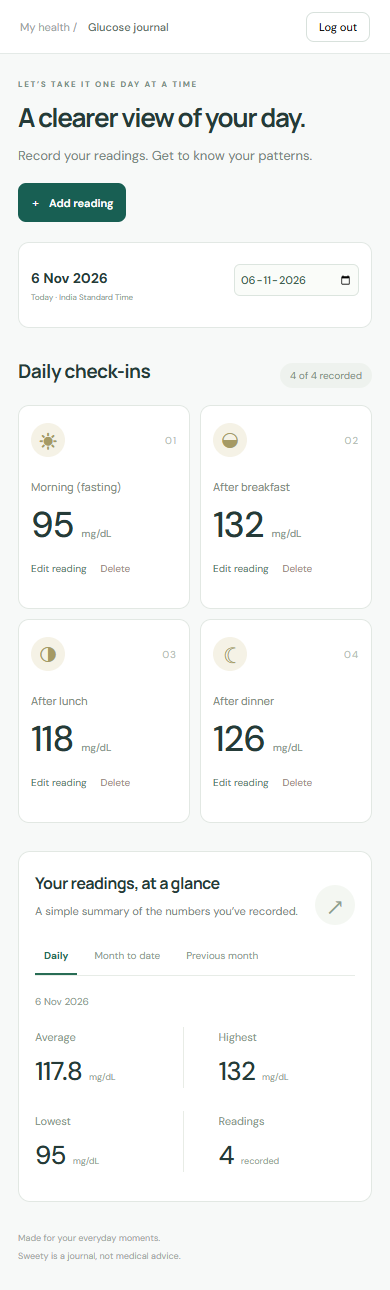
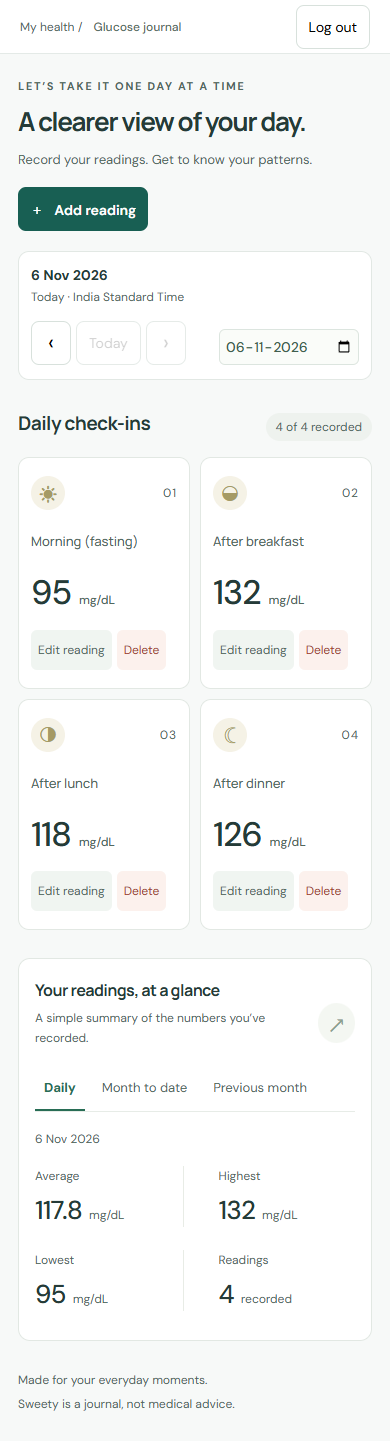
docs: refresh reviewed screenshots and verification evidence
Record the 28-test fresh-checkout result and browser/accessibility checks. Keep public documentation focused on the app and its technical limitations.

diff --git a/docs/VERIFICATION.md b/docs/VERIFICATION.md
@@ -1,41 +1,42 @@
 # Verification evidence
 
-Verified on 6 November 2026 using Node.js 24.19.0, npm 11.17.0 and PostgreSQL 17 in Docker.
+Verified on 6 November 2026 with Node.js 24.19.0, npm 11.17.0, PostgreSQL 17 in Docker, and Chromium.
 
 ## Automated checks
 
-`npm test` exercises real PostgreSQL in an isolated temporary schema, plus pure domain tests. It covers registration/password hashing, login, private listing/reporting, forbidden edits/deletes, invalid values/dates/slots, conflicting edits, simultaneous creates and edits, database constraints, logout, report updates, leap years, year boundaries, rounding and empty reports.
+All **28 tests passed**, with no failures or skips:
 
-All 12 server/domain tests and 8 React component tests passed with zero failures or skips. `npm run build` compiles the React client successfully. `npm audit` reported zero known vulnerabilities at installation time; this is a point-in-time dependency check, not a security guarantee.
+- **13 backend/domain/seed tests:** bcrypt storage, login, user isolation, forbidden edits/deletes, value/date/slot validation, edit conflicts, concurrent creates and edits, database constraints, report updates, calendar boundaries, rounding and empty reports. The real seed script is run twice in an isolated schema to verify email normalization and repeatability.
+- **15 React component tests:** required/range/integer/future-date errors, edit request fields, server conflicts, accessible chart data, failed-report recovery, keyboard tabs, day navigation, expired sessions, deletion confirmation, pending requests and failed deletion.
 
-A fresh `git archive` checkout was extracted into a new temporary folder. `npm ci`, migration into a newly created empty PostgreSQL database, demo seeding, all 20 tests and the build passed. The disposable database was removed afterwards. This confirmed that no untracked file or pre-existing app data was required for setup. The API was also started from the fresh checkout with external environment configuration; health, seeded login and daily reports passed.
+A fresh archived checkout passed `npm ci`, migration into an empty database, demo seeding with a spaced/mixed-case email, all 28 tests and `npm run build`. Disposable test schemas and the verification database were removed afterwards. Setup did not rely on ignored local instructions, coaching files or existing app data. Installation reported zero known vulnerabilities at verification time; this is not a security guarantee.
 
 ## Browser checks
 
-The flow under test was: registration/login → journal → add/edit/delete readings → refresh reports → logout. Playwright was used because the separate Browser plugin/skill was not available in this session.
+The flow under test was registration/login → journal → add/edit/delete → report refresh → logout. Playwright exercised the actual app at `http://127.0.0.1:5173`.
 
 | Check | Observed outcome |
 | --- | --- |
-| Page identity | Correct local URL and Sweety title |
-| Meaningful render | Auth screen and journal render without a framework error overlay |
-| Create | Four slot readings save and appear with values and units |
-| Required error | Empty value shows “Please enter a glucose value.” in the dialog |
-| Edit | Changing 94 to 95 updates the daily average to 117.8 |
-| Delete | Confirming deletion reduces the count; adding the reading again restores it |
-| Periods | November 6 yields November 1–6 and October 1–31 |
-| Empty report | Previous month without entries shows the friendly empty state |
-| Session | Login persists across reload; logout persists across reload |
-| Failed date request | Simulated HTTP 503 shows an error, clears previous-day readings and recovers after selecting a working date |
-| Keyboard | Native dialog closes on Escape and manages modal focus |
-| Responsive | Desktop 1440×1000 and mobile 390×844; no horizontal mobile overflow |
-| Console | No runtime app errors on final authenticated render; unauthenticated session probes produce expected HTTP 401 responses |
+| Page identity and render | Correct URL/title, meaningful content, no framework error overlay |
+| CRUD | Four slot readings displayed; edits update averages; confirmed deletion reduces count; adding the entry again restores it |
+| Required-value error | Visible error, invalid-field association and focus on the value input |
+| Report periods | November 6 produces November 1–6 and October 1–31; empty periods show a friendly state |
+| Failed report | Simulated HTTP 503 shows a distinct error; retry succeeds without stale or falsely empty data |
+| Deletion failure | Simulated HTTP 503 remains in the dialog and preserves the reading |
+| Day navigation | Previous/next/today update the selected day; next-day navigation is disabled on today |
+| Keyboard tabs | Arrow keys, Home and End move selection/focus and identify the active panel |
+| Session expiry | Simulated HTTP 401 returns to sign-in with an explanation; login recovers; stale notices clear |
+| Logout | Session clears and sign-in remains after reload |
+| Chart | Seven fictional readings match the chronological data table; point details are available on keyboard focus |
+| Responsive layout | Desktop 1440×1000 and mobile 390×844; no horizontal mobile overflow |
+| Console | No unexplained runtime errors; unauthenticated probes and deliberately injected HTTP failures produce expected network errors |
 
-Screenshots: [desktop journal](screenshots/daily-journal.png), [mobile journal](screenshots/mobile-journal.png), [validation dialog](screenshots/reading-validation.png), [monthly trend](screenshots/monthly-trend.png). All displayed account/readings are fictional. Screenshots were visually inspected for clipping, spacing, typography, controls and error readability.
+## Accessibility
 
-## Bonus verification
+Axe checks for WCAG 2 A/AA, 2.1 AA and 2.2 AA rules reported **zero violations** in the tested sign-in, desktop journal/chart, reading-error dialog, delete dialog and mobile journal states. Initial contrast failures in action buttons and chart labels were corrected. Manual checks covered keyboard report navigation, invalid-field focus and modal dismissal. Automated checks do not establish full accessibility conformance.
 
-React Testing Library covers required values, range/integer failures, future dates, edit request fields, server conflicts and accessible chart data. The monthly chart was checked in Chromium with seven actual fictional-account readings: the table contained all seven in chronological order, and keyboard focus exposed the point details.
+## Screenshots and limitations
 
-## Limits
+[Desktop journal](screenshots/daily-journal.png), [monthly trend](screenshots/monthly-trend.png), [mobile journal](screenshots/mobile-journal.png), and [validation dialog](screenshots/reading-validation.png) show fictional account data. Each screenshot was inspected for typography, contrast, spacing, clipping and control readability.
 
-Browser checks used Chromium; Safari/Firefox and assistive-technology testing remain unverified. There is no deployed production environment.
+Safari, Firefox and screen-reader testing remain unverified. There is no hosted production deployment. Production readiness limitations are described in the README.

diff --git a/docs/ARCHITECTURE.md b/docs/ARCHITECTURE.md
@@ -22,6 +22,8 @@ One bounded query retrieves the previous month through the selected day. Pure re
 
 The journal refetches after successful mutations. Obsolete date requests are cancelled, and previous results are cleared during loading so a failed request cannot show another day's values. The monthly SVG chart plots actual readings in date/slot order and includes a data table. Lines connect recorded points; they do not represent measurements in the gaps.
 
+Request failures have an explicit retry state rather than appearing as empty data. An expired session returns to sign-in. Destructive actions use a native dialog that keeps errors visible and prevents dismissal while deletion is pending. Report tabs use roving keyboard focus and associated tab panels. Date navigation cannot advance beyond today.
+
 ## Verification boundaries
 
 Domain tests cover calendar boundaries and calculations. API tests exercise real PostgreSQL with separate users and concurrent writes inside a disposable schema. React Testing Library checks form behavior at the API boundary. Chromium checks cover the rendered workflow and responsive layout. See [verification evidence](VERIFICATION.md) for observed results and remaining limitations.

diff --git a/README.md b/README.md
@@ -11,7 +11,7 @@ Tested with Node.js 24, npm 11 and PostgreSQL 17. Use Node.js 24 LTS and Docker 
 1. Clone the repository and open its root directory.
 2. Run `npm ci` to install the versions recorded in the lockfile.
 3. Copy `.env.example` to `.env` (`Copy-Item .env.example .env` in PowerShell, or `cp .env.example .env` on macOS/Linux).
-4. Replace `JWT_SECRET` with a random value of at least 32 characters. You can generate one with `node -e "console.log(require('node:crypto').randomBytes(32).toString('hex'))"`. Choose a local `DEMO_PASSWORD` of at least 8 characters. Keep `.env` private.
+4. Replace `JWT_SECRET` with a random value of at least 32 characters. You can generate one with `node -e "console.log(require('node:crypto').randomBytes(32).toString('hex'))"`. Choose a local `DEMO_PASSWORD` of at least 8 characters and at most 72 bytes. Keep `.env` private.
 5. Run `docker compose up -d db`. Wait for `docker compose ps` to show the database as healthy. The supplied database credentials are for local development only, and the published port binds to localhost.
 6. Run `npm run db:migrate`, then `npm run db:seed`.
 7. Run `npm run dev` and open **http://127.0.0.1:5173**.

diff --git a/docs/REQUIREMENTS.md b/docs/REQUIREMENTS.md
@@ -20,8 +20,8 @@ Required behavior and deliverables for the glucose tracker.
 | Highest, lowest, average to one decimal, count | Reports.js and UI formatting; calculation tests |
 | Empty report state | Null statistics and friendly message; domain/browser checks |
 | Daily readings listed with slots | Four slot cards include recorded value/unit and edit/delete controls |
-| A few meaningful tests | Domain/API tests plus React Testing Library form/chart tests |
-| Public repo, regular commits | https://github.com/GlenTheReb/sweety; genuine milestone commits with subsequent pushes |
+| A few meaningful tests | 28 domain/API/seed and React component tests |
+| Public repo, regular commits | https://github.com/GlenTheReb/sweety; incremental implementation commits |
 | README installation/database/server/client/tests | Root README quick start and commands table |
 | Complete .env.example without secrets | Placeholder JWT/demo password, local-only database values; actual .env ignored |
 | Demo-user seed with sample readings | Repeatable seed; clean-database verification; fictional values only |
